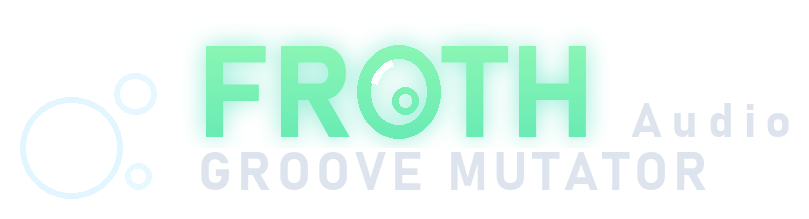
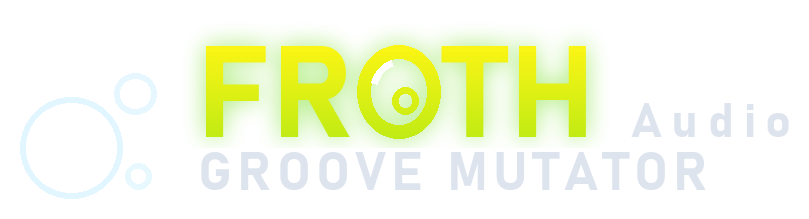
feat(GrooveMutator): update color scheme and lockup image

Changed region(s): [[0.2472, 0.1644, 0.7417, 0.6575]]

diff --git a/plugins/GrooveMutator/Source/PluginEditor.h b/plugins/GrooveMutator/Source/PluginEditor.h
@@ -52,11 +52,11 @@ private:
     GrooveMutatorProcessor& processor;
 
     // Declared first so it is destroyed last, after every component that uses it.
-    SuiteUI::SuiteLookAndFeel lookAndFeel { juce::Colour (0xff9aa0a6) };
+    SuiteUI::SuiteLookAndFeel lookAndFeel { juce::Colour (0xffdcf014) };
 
     // R12: the factory preset bar, flat in the header; R13: the menu at its right.
     std::unique_ptr<SuitePresets::PresetBar> presetBar;
-    SuiteUI::HeaderMenuButton headerMenu { juce::Colour (0xff9aa0a6) };
+    SuiteUI::HeaderMenuButton headerMenu { juce::Colour (0xffdcf014) };
 
     // R14a: the shared help line in the footer band.
     SuiteUI::HelpTracker helpTracker;
@@ -78,7 +78,7 @@ private:
         juce::ToggleButton onToggle { "ON" };
         SuiteUI::LabelledDropdown divisionCtrl { "DIVISION" };
 
-        SuiteUI::LabelledSelector patternCtrl { "PATTERN", juce::Colour (0xff9aa0a6) };
+        SuiteUI::LabelledSelector patternCtrl { "PATTERN", juce::Colour (0xffdcf014) };
         SuiteUI::LabelledSlider stepsCtrl { "STEPS", juce::Slider::RotaryVerticalDrag };
         SuiteUI::LabelledSlider pulsesCtrl { "PULSES", juce::Slider::RotaryVerticalDrag };
         SuiteUI::LabelledSlider rotationCtrl { "ROTATION", juce::Slider::RotaryVerticalDrag };
@@ -103,25 +103,25 @@ private:
     std::array<std::unique_ptr<LaneCard>, GrooveMutatorProcessor::numTracks> lanes;
 
     // MUTATE page: the attractor trail (the MTC visual) and the chaos/fill group.
-    SuiteUI::TrailPlot trailPlot { juce::Colour (0xff9aa0a6) };
+    SuiteUI::TrailPlot trailPlot { juce::Colour (0xffdcf014) };
     SuiteUI::LabelledSlider chaosCtrl { "CHAOS", juce::Slider::RotaryVerticalDrag };
     SuiteUI::LabelledSlider mutateScaleCtrl { "MUTATE SCALE", juce::Slider::RotaryVerticalDrag };
     SuiteUI::LabelledSlider seedCtrl { "SEED", juce::Slider::RotaryVerticalDrag };
-    SuiteUI::LabelledSelector evolveRateCtrl { "EVOLVE RATE", juce::Colour (0xff9aa0a6) };
+    SuiteUI::LabelledSelector evolveRateCtrl { "EVOLVE RATE", juce::Colour (0xffdcf014) };
     juce::ToggleButton freezeToggle { "FREEZE" };
     SuiteUI::LabelledSlider fillProbCtrl { "FILL PROB", juce::Slider::RotaryVerticalDrag };
-    SuiteUI::LabelledSelector fillStyleCtrl { "FILL STYLE", juce::Colour (0xff9aa0a6) };
-    SuiteUI::LabelledSelector fillBarsCtrl { "FILL LENGTH", juce::Colour (0xff9aa0a6) };
+    SuiteUI::LabelledSelector fillStyleCtrl { "FILL STYLE", juce::Colour (0xffdcf014) };
+    SuiteUI::LabelledSelector fillBarsCtrl { "FILL LENGTH", juce::Colour (0xffdcf014) };
 
     // GROOVE page: the feel and the clock/trigger.
     SuiteUI::LabelledSlider swingCtrl { "SWING", juce::Slider::RotaryVerticalDrag };
     SuiteUI::LabelledSlider humaniseTimeCtrl { "HUM TIME", juce::Slider::RotaryVerticalDrag };
     SuiteUI::LabelledSlider humaniseVelCtrl { "HUM VEL", juce::Slider::RotaryVerticalDrag };
-    SuiteUI::LabelledSelector velCurveCtrl { "VEL CURVE", juce::Colour (0xff9aa0a6) };
-    SuiteUI::LabelledSelector polyRatioCtrl { "POLY", juce::Colour (0xff9aa0a6) };
+    SuiteUI::LabelledSelector velCurveCtrl { "VEL CURVE", juce::Colour (0xffdcf014) };
+    SuiteUI::LabelledSelector polyRatioCtrl { "POLY", juce::Colour (0xffdcf014) };
     juce::ToggleButton syncToggle { "SYNC" };
     SuiteUI::LabelledSlider tempoCtrl { "TEMPO", juce::Slider::RotaryVerticalDrag };
-    SuiteUI::LabelledSelector triggerModeCtrl { "TRIGGER", juce::Colour (0xff9aa0a6) };
+    SuiteUI::LabelledSelector triggerModeCtrl { "TRIGGER", juce::Colour (0xffdcf014) };
     SuiteUI::LabelledSlider triggerKeyCtrl { "KEY", juce::Slider::RotaryVerticalDrag };
 
     // Attachments for the non-lane widgets.
@@ -144,7 +144,7 @@ private:
     std::unique_ptr<juce::AudioProcessorValueTreeState::SliderAttachment> triggerKeyAttachment;
 
     // The modulation page (plan 19 Phase 4): the shared panel and the live displays.
-    SuiteUI::SegmentedSelector pageSelector { juce::Colour (0xff9aa0a6) };
+    SuiteUI::SegmentedSelector pageSelector { juce::Colour (0xffdcf014) };
     SuiteModulation::ModulationPanel modulationPanel { processor.getRouter(), modulationStyle() };
     std::unique_ptr<SuiteModulation::ControlDisplay> controls;
 

diff --git a/plugins/GrooveMutator/Source/PluginEditor.cpp b/plugins/GrooveMutator/Source/PluginEditor.cpp
@@ -68,11 +68,11 @@ GrooveMutatorEditor::GrooveMutatorEditor (GrooveMutatorProcessor& p)
 
     // The bar exists before setSize(), because setSize() runs resized(), which lays it out.
     presetBar.reset (new SuitePresets::PresetBar (static_cast<SuitePresets::StateHolder&> (processor),
-                                                  juce::Colour (0xff9aa0a6)));
+                                                  juce::Colour (0xffdcf014)));
 
     // The eight lane cards before setSize() as well: the first resized() walks them.
     for (int track = 0; track < GrooveMutatorProcessor::numTracks; ++track)
-        lanes[(size_t) track] = std::make_unique<LaneCard> (processor, track, juce::Colour (0xff9aa0a6));
+        lanes[(size_t) track] = std::make_unique<LaneCard> (processor, track, juce::Colour (0xffdcf014));
 
     setSize (editorWidth, editorHeight);
     setResizable (true, true);
@@ -244,7 +244,7 @@ GrooveMutatorEditor::~GrooveMutatorEditor()
 
 SuiteModulation::ModulationPanel::Style GrooveMutatorEditor::modulationStyle()
 {
-    return { { juce::Colour (0xff9aa0a6), juce::Colour (0xff9aa0a6) },
+    return { { juce::Colour (0xff252525), juce::Colour (0xff252525) },
              SuiteUI::Colours::text, SuiteUI::Colours::textDim,
              SuiteUI::Colours::panel, SuiteUI::Colours::track };
 }

diff --git a/AGENTS.md b/AGENTS.md
@@ -34,7 +34,7 @@ Nine audio plugins written with JUCE 9.0.5 in C++17. Formats: VST3 on Windows an
 | MIDI Chord Arp Scale Tool | `plugins/MidiEffect` | **instrument** (output-only buses, notes out; audio buffer cleared) | `CoreDSP::Chords` (chords, arp patterns, step-clock helpers), `CoreDSP::Sampler::quantizeToScale` | teal `#4ECDC4` |
 | MultiSat | `plugins/MultibandSaturation` (host name "MultiSat"; folder/target/preset ID keep the MultibandSaturation name) | audio effect | `CoreDSP::Multiband::TwoBandSplit`, `CoreDSP::Saturation` shapers/followers | coral `#FF6B6B` |
 | Cyclical | `plugins/Cyclical` | **instrument** (output-only, per-slot notes) | `CoreDSP::Loop` (LoopEngine: regions, crossfaded seams, ping-pong, grains) | tangerine `#FF7A45` (plan 14) |
-| Groove Mutator | `plugins/GrooveMutator` | **instrument** (MIDI effect: output-only buses, notes out, stereo pass-through) | `CoreDSP::Rhythm` (RhythmEngine: euclid/hash/painted patterns, mutation operators, fills) | slate `#9aa0a6` (plan 19) |
+| Groove Mutator | `plugins/GrooveMutator` | **instrument** (MIDI effect: output-only buses, notes out, stereo pass-through) | `CoreDSP::Rhythm` (RhythmEngine: euclid/hash/painted patterns, mutation operators, fills) | lemon `#DCF014` (plan 19) |
 - Manufacturer name `FROTH Audio` (shown by hosts; set by `COMPANY_NAME` in `modules/suite_plugin/SuitePlugin.cmake`), manufacturer code `Asui`, bundle IDs `com.audiosuite.<name>` (kept: they are part of the plugin identity, section 7).
 - Plugin code `Sgrf`. Codes and parameter IDs are saved in sessions
 
